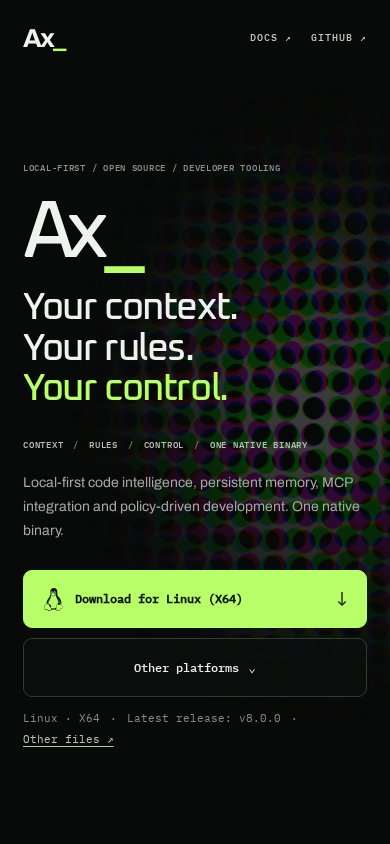
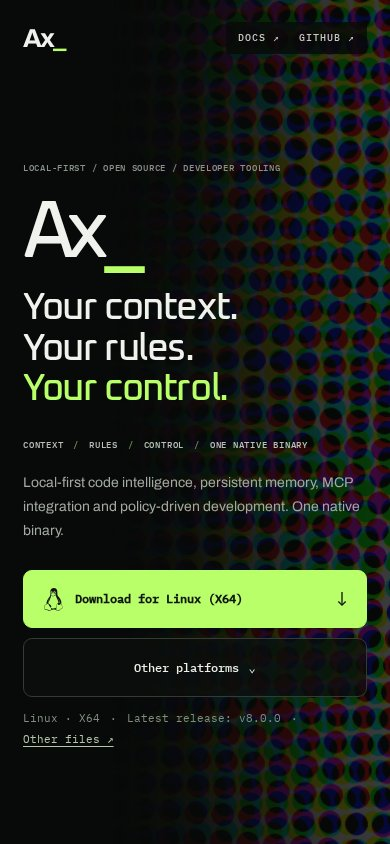
fix(site): fade moire from the side and make motion seamless

Changed region(s): [[0.4615, 0.0, 1.0, 1.0]]

diff --git a/site/src/styles/minimal-home.css b/site/src/styles/minimal-home.css
@@ -55,20 +55,20 @@ body.ax-landing{--ax-bg:#080a09;--ax-ink:#f0f3ed;--ax-muted:#a3aaa2;--ax-dim:#6f
 .ax-landing .ax-footer a:hover{color:var(--ax-lime)}
 .ax-landing .ax-footer .ax-footer-links{display:flex;gap:28px}
 /* Genuine overprint interference: near-matched dot pitches and independently
-   moving screen angles produce large beat bands. CMY overlap creates black. */
-.ax-landing .ax-halftone{position:absolute;z-index:1;inset:0 -3% 0 36%;overflow:hidden;pointer-events:none;opacity:.68;mask-image:radial-gradient(ellipse closest-side at 50% 50%,#000 8%,rgba(0,0,0,.85) 28%,rgba(0,0,0,.38) 58%,rgba(0,0,0,.09) 80%,transparent 100%);-webkit-mask-image:radial-gradient(ellipse closest-side at 50% 50%,#000 8%,rgba(0,0,0,.85) 28%,rgba(0,0,0,.38) 58%,rgba(0,0,0,.09) 80%,transparent 100%)}
+   moving screens produce large beat bands. Each loop moves exactly one grid tile. */
+.ax-landing .ax-halftone{position:absolute;z-index:1;inset:0 0 0 34%;overflow:hidden;pointer-events:none;opacity:.58;mask-image:linear-gradient(90deg,transparent 0%,rgba(0,0,0,.025) 15%,rgba(0,0,0,.16) 35%,rgba(0,0,0,.5) 57%,rgba(0,0,0,.85) 78%,#000 100%);-webkit-mask-image:linear-gradient(90deg,transparent 0%,rgba(0,0,0,.025) 15%,rgba(0,0,0,.16) 35%,rgba(0,0,0,.5) 57%,rgba(0,0,0,.85) 78%,#000 100%)}
 .ax-landing .ax-halftone-grid{position:absolute;inset:0;background:#fff;isolation:isolate}
-.ax-landing .ax-halftone-dots{position:absolute;inset:-30%;background-position:center;transform-origin:center;mix-blend-mode:multiply}
+.ax-landing .ax-halftone-dots{position:absolute;inset:-30%;background-position:center;transform-origin:center;mix-blend-mode:multiply;will-change:transform}
 .ax-landing .ax-halftone-screen-one{background-image:radial-gradient(circle,#00ffff 0 10.8px,transparent 11.3px);background-size:26px 26px;transform:rotate(-3deg)}
-.ax-landing .ax-halftone-screen-two{background-image:radial-gradient(circle,#ff00ff 0 11.1px,transparent 11.6px);background-size:26.8px 26.8px;animation:ax-moire-magenta 64s ease-in-out infinite alternate}
-.ax-landing .ax-halftone-screen-three{background-image:radial-gradient(circle,#ffff00 0 10.55px,transparent 11.05px);background-size:25.4px 25.4px;animation:ax-moire-yellow 79s ease-in-out infinite alternate}
-@keyframes ax-moire-magenta{from{transform:translate3d(-6px,3px,0) rotate(2deg)}to{transform:translate3d(8px,-3px,0) rotate(7deg)}}
-@keyframes ax-moire-yellow{from{transform:translate3d(5px,-4px,0) rotate(-7deg)}to{transform:translate3d(-7px,5px,0) rotate(-2deg)}}
+.ax-landing .ax-halftone-screen-two{background-image:radial-gradient(circle,#ff00ff 0 11.1px,transparent 11.6px);background-size:26.8px 26.8px;animation:ax-moire-magenta 16s linear infinite}
+.ax-landing .ax-halftone-screen-three{background-image:radial-gradient(circle,#ffff00 0 10.55px,transparent 11.05px);background-size:25.4px 25.4px;animation:ax-moire-yellow 21s linear infinite}
+@keyframes ax-moire-magenta{from{transform:rotate(4deg) translate3d(0,0,0)}to{transform:rotate(4deg) translate3d(26.8px,0,0)}}
+@keyframes ax-moire-yellow{from{transform:rotate(-6deg) translate3d(0,0,0)}to{transform:rotate(-6deg) translate3d(0,25.4px,0)}}
 .ax-landing .ax-skip{position:fixed;top:-100px;left:12px;z-index:20;background:var(--ax-lime);color:#101510;padding:10px}.ax-landing .ax-skip:focus{top:10px}
 @media(min-width:900px){html:has(body.ax-landing),body.ax-landing{min-height:100%}.ax-landing .ax-page{min-height:100svh} }
 @media(min-width:900px) and (max-height:790px){.ax-landing .ax-header{height:64px;min-height:64px}.ax-landing .ax-footer{min-height:44px}.ax-landing .ax-eyebrow{margin-bottom:16px}.ax-landing .ax-display-word{font-size:clamp(60px,6.8vw,95px);margin-bottom:9px}.ax-landing .ax-headline{font-size:clamp(33px,4.15vw,60px)}.ax-landing .ax-feature-strip{margin-top:20px}.ax-landing .ax-explainer{margin-top:15px}.ax-landing .ax-download{margin-top:20px}.ax-landing .ax-download-primary{min-height:53px}}
-@media(max-width:899px){.ax-landing .ax-page{min-height:100svh;overflow:hidden}.ax-landing .ax-header{height:75px}.ax-landing .ax-main{padding:62px 27px 90px;align-items:start}.ax-landing .ax-content{width:min(650px,100%)}.ax-landing .ax-halftone{inset:4% -25% 12% 20%;opacity:.3}}
-@media(max-width:600px){.ax-landing .ax-header{height:65px;padding-inline:23px}.ax-landing .ax-wordmark{font-size:26px}.ax-landing .ax-navigation{gap:19px}.ax-landing .ax-navigation a{font-size:10px}.ax-landing .ax-main{padding:69px 23px 70px}.ax-landing .ax-eyebrow{font-size:9px;margin-bottom:25px;letter-spacing:.08em}.ax-landing .ax-display-word{font-size:81px;margin-bottom:20px}.ax-landing .ax-headline{font-size:clamp(38px,9.6vw,58px)}.ax-landing .ax-feature-strip{gap:9px 10px;margin-top:29px;font-size:9px}.ax-landing .ax-feature-strip span+span::before{margin-right:10px}.ax-landing .ax-explainer{font-size:14px;margin-top:18px}.ax-landing .ax-download{margin-top:28px}.ax-landing .ax-download-row{flex-direction:column}.ax-landing .ax-download-primary{min-height:58px;font-size:12px;white-space:normal;padding:0 18px;gap:10px}.ax-landing .ax-other-platforms{min-height:48px;width:100%}.ax-landing .ax-platform-panel{width:100%;position:relative;bottom:auto;right:auto;margin:12px 0 0}.ax-landing .ax-download-controls{width:100%}.ax-landing .ax-footer{padding:20px 23px;flex-wrap:wrap;gap:9px;font-size:9px}.ax-landing .ax-footer .ax-footer-links{gap:16px}.ax-landing .ax-halftone{inset:8% -45% 18% 16%;opacity:.2}}
+@media(max-width:899px){.ax-landing .ax-page{min-height:100svh;overflow:hidden}.ax-landing .ax-header{height:75px}.ax-landing .ax-main{padding:62px 27px 90px;align-items:start}.ax-landing .ax-content{width:min(650px,100%)}.ax-landing .ax-halftone{inset:0 0 0 22%;opacity:.3}}
+@media(max-width:600px){.ax-landing .ax-header{height:65px;padding-inline:23px}.ax-landing .ax-wordmark{font-size:26px}.ax-landing .ax-navigation{gap:19px}.ax-landing .ax-navigation a{font-size:10px}.ax-landing .ax-main{padding:69px 23px 70px}.ax-landing .ax-eyebrow{font-size:9px;margin-bottom:25px;letter-spacing:.08em}.ax-landing .ax-display-word{font-size:81px;margin-bottom:20px}.ax-landing .ax-headline{font-size:clamp(38px,9.6vw,58px)}.ax-landing .ax-feature-strip{gap:9px 10px;margin-top:29px;font-size:9px}.ax-landing .ax-feature-strip span+span::before{margin-right:10px}.ax-landing .ax-explainer{font-size:14px;margin-top:18px}.ax-landing .ax-download{margin-top:28px}.ax-landing .ax-download-row{flex-direction:column}.ax-landing .ax-download-primary{min-height:58px;font-size:12px;white-space:normal;padding:0 18px;gap:10px}.ax-landing .ax-other-platforms{min-height:48px;width:100%}.ax-landing .ax-platform-panel{width:100%;position:relative;bottom:auto;right:auto;margin:12px 0 0}.ax-landing .ax-download-controls{width:100%}.ax-landing .ax-footer{padding:20px 23px;flex-wrap:wrap;gap:9px;font-size:9px}.ax-landing .ax-footer .ax-footer-links{gap:16px}.ax-landing .ax-halftone{inset:0 0 0 20%;opacity:.2}}
 @media(prefers-reduced-motion:reduce){.ax-landing .ax-halftone-dots{animation:none!important}.ax-landing *, .ax-landing *::before,.ax-landing *::after{scroll-behavior:auto!important;transition:none!important}}
 html[data-ax-motion='paused'] .ax-landing .ax-halftone-dots{animation-play-state:paused!important}
 /* Keep the platform selector aligned with the primary download control. */
@@ -76,3 +76,6 @@ html[data-ax-motion='paused'] .ax-landing .ax-halftone-dots{animation-play-state
 .ax-landing .ax-other-platforms{min-height:59px}
 @media(min-width:900px) and (max-height:790px){.ax-landing .ax-other-platforms{min-height:53px}}
 @media(max-width:600px){.ax-landing .ax-download-controls{display:block}}
+
+/* Keep small navigation labels readable where the ink reaches the right edge. */
+.ax-landing .ax-navigation,.ax-landing .ax-footer-links{padding:9px 12px;background:rgba(8,10,9,.82);border-radius:4px}

diff --git a/site/tests/home-minimal.test.ts b/site/tests/home-minimal.test.ts
@@ -29,13 +29,16 @@ test('Oxanium is bundled and used for the heading, not loaded from Google Fonts'
   assert.doesNotMatch(page, /fonts\.googleapis\.com|fonts\.gstatic\.com/);
 });
 
-test('CMY interference uses near-matched pitches, independent motion and feathered edges', () => {
+test('CMY interference fades horizontally from the edge and uses continuous tile loops', () => {
   assert.match(home, /ax-halftone-screen-three/);
   for (const pitch of ['26px 26px', '26.8px 26.8px', '25.4px 25.4px']) assert.ok(css.includes(pitch));
   for (const ink of ['#00ffff', '#ff00ff', '#ffff00']) assert.ok(css.includes(ink));
   assert.match(css, /mix-blend-mode:multiply/);
-  assert.match(css, /ellipse closest-side/);
-  assert.match(css, /transparent 100%/);
+  assert.match(css, /mask-image:linear-gradient\(90deg,transparent 0%/);
+  assert.match(css, /#000 100%/);
+  assert.doesNotMatch(css, /mask-image:radial-gradient|infinite alternate/);
+  assert.match(css, /16s linear infinite/);
+  assert.match(css, /21s linear infinite/);
   assert.doesNotMatch(css, /border-radius:50%|ax-halftone-rosette/);
   assert.match(css, /@keyframes ax-moire-magenta/);
   assert.match(css, /@keyframes ax-moire-yellow/);
